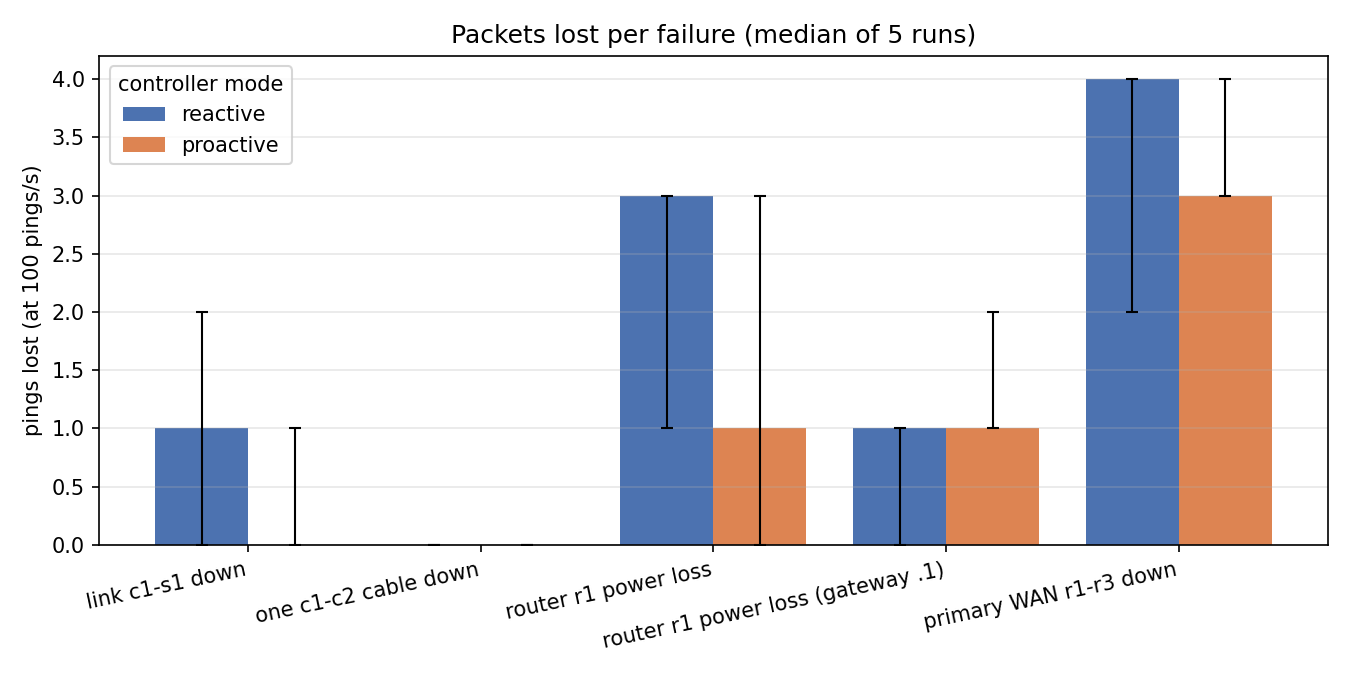
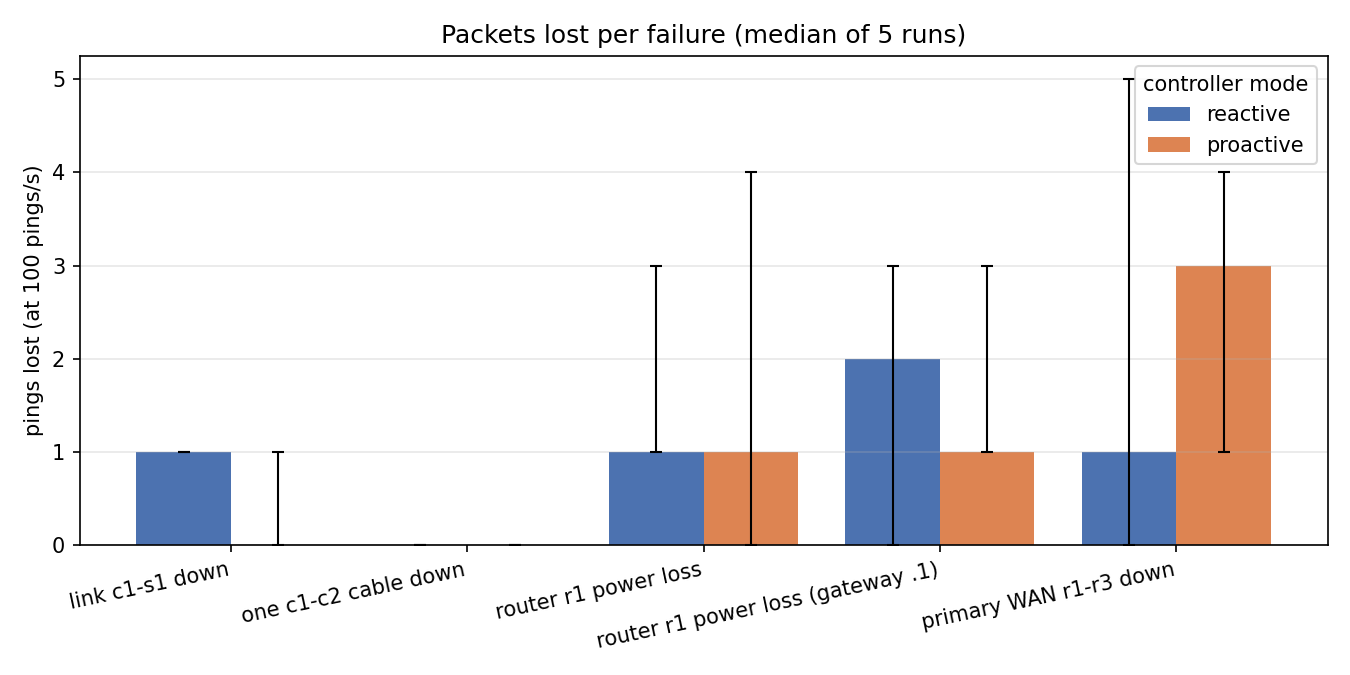
T25 results: full chaos run with insider timing; honest mode comparison
- docs/results: 50/50 failure runs self-healed; insider blocked 5/5, median 6.3 s
- detection_to_block.png redrawn as a timeline (the block lands in the same engine
  cycle as the Breach score, which the stacked bars hid)
- testing.md, report, architecture, D39: this run's numbers; reactive vs proactive is
  within noise except r1's power loss (proactive faster in both full runs)

diff --git a/scripts/charts.py b/scripts/charts.py
@@ -60,26 +60,30 @@ def grouped_bars(rows, field, ylabel, title, out):
 
 
 def detection_chart(out):
-    """One horizontal bar per insider run: sweep start -> first alert -> Breach -> blocked."""
+    """One line per insider run, with a marker where each stage happened: first IDS alert,
+    Breach score, blocked. (The block usually lands in the same engine cycle as the Breach,
+    so the two markers sit on top of each other; that is the point: no human delay.)"""
     rows = list(csv.DictReader(open(RESULTS / "detection.csv")))
-    stages = [("alert_s", "first IDS alert", "#4C72B0"), ("breach_s", "score 70+ (Breach)", "#DD8452"),
-              ("block_s", "blocked at its port", "#C44E52")]
-    fig, ax = plt.subplots(figsize=(9, 0.5 * len(rows) + 1.8))
+    stages = [("alert_s", "first IDS alert", "o", "#4C72B0", 9),
+              ("breach_s", "score 70+ (Breach)", "s", "#DD8452", 11),
+              ("block_s", "blocked at its own port", "x", "#C44E52", 12)]
+    end = max(float(r["block_s"] or 0) for r in rows)
+    fig, ax = plt.subplots(figsize=(9, 0.55 * len(rows) + 2.2))
     for i, r in enumerate(rows):
-        prev = 0.0
-        for field, label, color in stages:
-            if not r[field]:
-                continue
-            t = float(r[field])
-            ax.barh(i, t - prev, left=prev, color=color, label=label if i == 0 else None)
-            prev = t
-        ax.text(prev + 0.2, i, f"{prev:.0f} s  (score {r['score']})", va="center", fontsize=9)
+        last = max(float(r[f]) for f, *_ in stages if r[f])
+        ax.plot([0, last], [i, i], color="#999999", linewidth=1, zorder=1)
+        for field, label, marker, color, size in stages:
+            if r[field]:
+                ax.plot(float(r[field]), i, marker=marker, color=color, markersize=size, linestyle="none",
+                        markeredgewidth=2, label=label if i == 0 else None, zorder=2)
+        ax.text(last + 0.25, i, f"blocked after {last:.1f} s, score {r['score']}", va="center", fontsize=9)
     ax.set_yticks(range(len(rows)))
     ax.set_yticklabels([f"run {r['run']}" for r in rows])
     ax.invert_yaxis()
+    ax.set_xlim(0, end + 3.5)
     ax.set_xlabel("seconds since the port sweep started")
     ax.set_title("Insider attack: detection to block, per run")
-    ax.legend(loc="lower right")
+    ax.legend(loc="upper center", bbox_to_anchor=(0.5, -0.22), ncol=3, frameon=False)
     ax.grid(axis="x", alpha=0.3)
     fig.tight_layout()
     fig.savefig(out, dpi=150)

diff --git a/scripts/demo.py b/scripts/demo.py
@@ -117,7 +117,7 @@ class Demo:
         self.point(self.stream_report(since),
                    f"The controller logged {len(new)} reroute event(s), {moved} paths moved, computed in {ms or '-'}"
                    " (/var/log/fortress/ryu/reroutes.jsonl)",
-                   "Measured over 5 runs: about 20-30 ms of interruption (docs/results/summary.csv)")
+                   "Measured over 5 runs per mode: about 20-30 ms of interruption (docs/results/summary.csv)")
         self.net.configLinkStatus(c1, s1, "up")
 
     def reroutes(self):

diff --git a/docs/testing.md b/docs/testing.md
@@ -68,27 +68,34 @@ Result, from [`summary.csv`](results/summary.csv) (all 50 runs healed by themsel
 
 | Failure | Mechanism | Reactive median (min-max) | Proactive median (min-max) |
 |---------|-----------|---------------------------|----------------------------|
-| Link c1-s1 down | SDN reroute / fast-failover | 29 ms (24-46) | 21 ms (19-29) |
-| One c1-c2 cable down | link aggregation | 20 ms (16-28) | 19 ms (18-21) |
-| r1 power loss (routed traffic) | VRRP | 50 ms (24-62) | 26 ms (21-61) |
-| r1 power loss (pinging the gateway) | VRRP takeover | 21 ms (18-24) | 21 ms (19-56) |
-| Primary WAN r1-r3 down | OSPF, VPN on loopbacks | 57 ms (45-71) | 56 ms (44-64) |
+| Link c1-s1 down | SDN reroute / fast-failover | 23 ms (18-33) | 31 ms (19-37) |
+| One c1-c2 cable down | link aggregation | 19 ms (17-20) | 19 ms (17-20) |
+| r1 power loss (routed traffic) | VRRP | 37 ms (18-73) | 28 ms (24-80) |
+| r1 power loss (pinging the gateway) | VRRP takeover | 50 ms (16-55) | 31 ms (18-49) |
+| Primary WAN r1-r3 down | OSPF, VPN on loopbacks | 27 ms (17-72) | 48 ms (20-64) |
 
 ![Recovery per failure](results/recovery_by_failure.png)
 
 **Reading the numbers honestly.** Mininet hosts manage about 55 pings/s, so the measurement
 resolves about 20 ms; most of these recoveries are at or near that floor. What the table really
-shows: every failure heals by itself, in well under a tenth of a second, in both modes. The
-clearest difference between the modes is r1's power loss, where the proactive backup buckets move
-traffic to r2's port without waiting for the controller. VRRP itself takes 0.7 s to declare r2
+shows: every failure heals by itself, in well under a tenth of a second, in both modes. Between
+the modes there is **no consistent difference**: across two full runs, the faster mode flipped for
+the cut cable and the WAN cut. The one repeatable gap is r1's power loss (proactive 26 and 28 ms,
+reactive 50 and 37 ms), where the proactive backup buckets move traffic to r2's port without
+waiting for the controller. In this small, fast lab the controller reacts almost as quickly as the
+switch; fast-failover would matter more where the controller is far away or busy. VRRP itself takes 0.7 s to declare r2
 Master, yet hosts lose nothing, because r2 already owns the virtual MAC and forwards as soon as
 frames reach it (D39).
 
-**Insider response timing** (`detection.csv`, `detection_to_block.png`): the chaos test also runs
-the insider scenario 5 times and times the first IDS alert, the Breach score and the block. In our
-runs so far the first alert comes about 1.3 s after the sweep starts and the block 1.3-6.3 s after
-it; the spread is where the sweep falls in the engine's 5-second scoring cycle. Scores were 92-93
-from four signals (anomaly, IDS, port sweep, refused connections).
+**Insider response timing** ([`detection.csv`](results/detection.csv)): the chaos test also runs
+the insider scenario 5 times and times the first IDS alert, the Breach score and the block.
+Result: **blocked in 5 of 5 runs, median 6.3 s** after the sweep started (1.3-7.3 s). The first
+Suricata alert came 1.3 s in every run (the first check after the 200-port sweep finishes). The
+block always landed in the same engine cycle as the Breach score; the spread is where the sweep
+falls in the engine's 5-second cycle. Scores were 92-93, each from the same four signals (anomaly,
+IDS signature, port sweep, refused connections).
+
+![Detection to block](results/detection_to_block.png)
 
 ## 4. Other measurements
 

diff --git a/docs/report/report.md b/docs/report/report.md
@@ -15,7 +15,7 @@ router or a lost WAN link is bypassed automatically, and an automated chaos test
 recovery five times in two controller modes. All 50 runs healed without human help, typically in
 20-60 ms. The network also defends itself: a compromised host scanning from the Barracks is
 scored 92-93/100 from four independent signals, with the reason for every point written down, and
-is cut off at its own switch port within 1-7 seconds, while its neighbours carry on unaffected.
+is cut off at its own switch port within 1.3-7.3 seconds (median 6.3 s), while its neighbours carry on unaffected.
 
 ## 1. Introduction
 
@@ -126,23 +126,27 @@ check the repair. Final result: **142/142**.
 
 | Failure | Mechanism | Reactive | Proactive | Healed by itself |
 |---------|-----------|----------|-----------|------------------|
-| Core–access cable cut | SDN reroute / fast-failover | 29 ms | 21 ms | 10/10 |
-| One of two core cables cut | link aggregation | 20 ms | 19 ms | 10/10 |
-| Gateway router r1 loses power | VRRP | 50 ms | 26 ms | 10/10 |
-| Primary WAN cut | OSPF, VPN on loopbacks | 57 ms | 56 ms | 10/10 |
+| Core–access cable cut | SDN reroute / fast-failover | 23 ms | 31 ms | 10/10 |
+| One of two core cables cut | link aggregation | 19 ms | 19 ms | 10/10 |
+| Gateway router r1 loses power | VRRP | 37 ms | 28 ms | 10/10 |
+| Primary WAN cut | OSPF, VPN on loopbacks | 27 ms | 48 ms | 10/10 |
 
 ![Recovery time per failure](../results/recovery_by_failure.png)
 
 The measurement resolves about 20 ms, so most of these are at its floor: the honest conclusion is
-that every failure is bypassed automatically in well under 0.1 s. The proactive mode's advantage
-is clearest when r1 dies.
+that every failure is bypassed automatically in well under 0.1 s. Between the two modes there
+is no consistent difference except r1's power loss, where proactive was faster in both full runs
+(26 vs 50 ms, then 28 vs 37 ms): in a small lab the controller reacts almost as fast as the
+switch itself.
 
 ### 4.3 Insider attack
-Over our timed runs, a 200-port sweep from Barracks host bar3 was first flagged by Suricata about
-1.3 s after it started, scored 92-93/100 from four signals (model, IDS signature, port sweep,
-refused connections), and blocked at bar3's own switch port 1.3-6.3 s after the sweep began; bar1
-on the same switch was unaffected. The spread is set by the engine's 5-second scoring cycle.
-`chaos_test.py` repeats this five times and charts it (`detection_to_block.png`).
+In 5 timed runs, a 200-port sweep from Barracks host bar3 was flagged by Suricata 1.3 s after it
+started, scored 92-93/100 from four signals (model, IDS signature, port sweep, refused
+connections), and **blocked at bar3's own switch port in 5 of 5 runs, median 6.3 s** after the
+sweep began (1.3-7.3 s); bar1 on the same switch was unaffected. The spread is set by the
+engine's 5-second scoring cycle.
+
+![Detection to block](../results/detection_to_block.png)
 
 ### 4.4 Mission-priority QoS
 With the Barracks flooding at twice the link rate, the Command Center's round-trip time stayed

diff --git a/docs/architecture.md b/docs/architecture.md
@@ -141,10 +141,10 @@ flowchart LR
 
 | Failure | What notices | What repairs it | Measured (median, 5 runs) |
 |---------|--------------|-----------------|---------------------------|
-| Core–access cable cut | the switch (port down) | controller reroute / fast-failover group | 29 ms reactive, 21 ms proactive |
-| One of the two c1-c2 cables | the switch | select group drops the dead member | 20 / 19 ms |
-| r1 loses power | VRRP adverts stop (every 200 ms) | r2 becomes Master in 0.7 s; traffic moves in ~20-50 ms | 50 / 26 ms |
-| Primary WAN r1-r3 cut | carrier loss, OSPF (1 s hellos) | OSPF reroutes via r2; VPN follows (loopbacks) | 57 / 56 ms |
+| Core–access cable cut | the switch (port down) | controller reroute / fast-failover group | 23 ms reactive, 31 ms proactive |
+| One of the two c1-c2 cables | the switch | select group drops the dead member | 19 / 19 ms |
+| r1 loses power | VRRP adverts stop (every 200 ms) | r2 becomes Master in 0.7 s; traffic moves in ~20-50 ms | 37 / 28 ms |
+| Primary WAN r1-r3 cut | carrier loss, OSPF (1 s hellos) | OSPF reroutes via r2; VPN follows (loopbacks) | 27 / 48 ms |
 
 Numbers from [`docs/results/summary.csv`](results/summary.csv); how they were measured is in
 [`testing.md`](testing.md).

diff --git a/docs/decisions.md b/docs/decisions.md
@@ -440,5 +440,13 @@ is 4 s, so a WAN failover can't be 35 ms. Checking the raw ping logs found:
   further while no replies come back, so `lost` undercounts long outages. `recovery_s` (the
   longest silence) is the number to trust.
 
+**Final results** (`docs/results/summary.csv`, 5 runs per failure and mode, all 50 runs healed by
+themselves; median recovery, reactive / proactive): link c1-s1 23 / 31 ms, one core cable 19 /
+19 ms, r1 power loss 37 / 28 ms (routed) and 50 / 31 ms (gateway address), primary WAN 27 / 48 ms.
+The ping stream resolves about 20 ms, and an earlier full run had the cable and WAN orderings the
+other way round, so the modes are not reliably different here; only r1's power loss favoured
+proactive in both runs. Insider response (`detection.csv`): blocked in 5/5 runs, median 6.3 s
+after the sweep began (1.3-7.3 s), scores 92-93 from four signals. The full suite is 142/142.
+
 D28's known limit (r1 dying completely sends base <-> FOB traffic unencrypted via r2) still holds;
 the loopbacks fix the cut-cable case, not the dead-router case.
